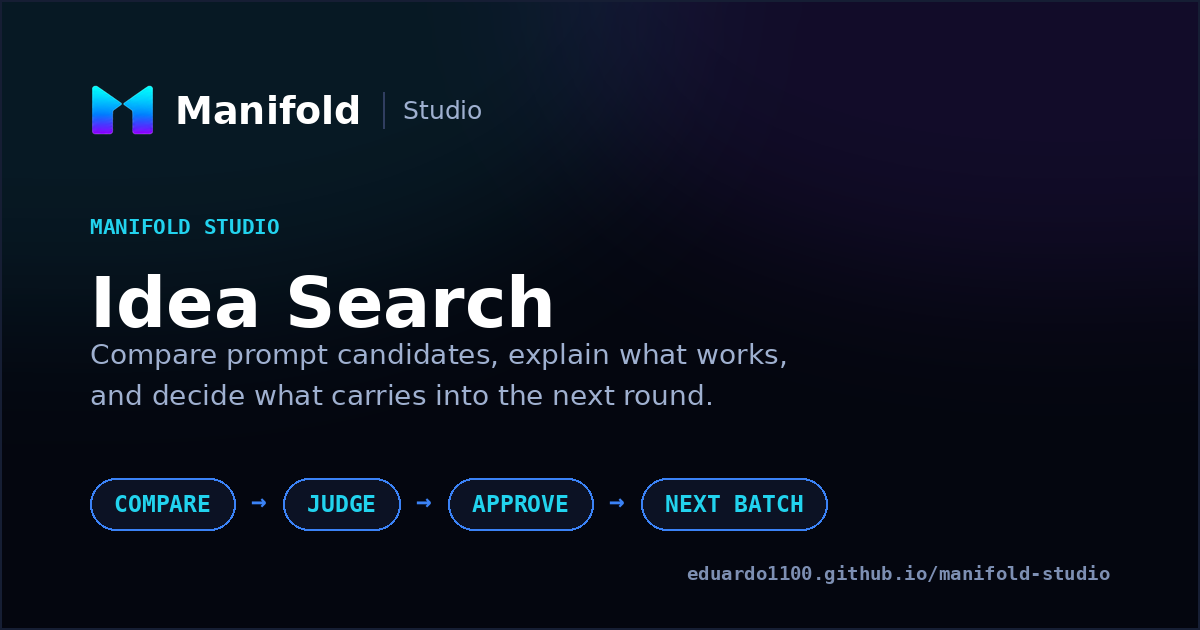
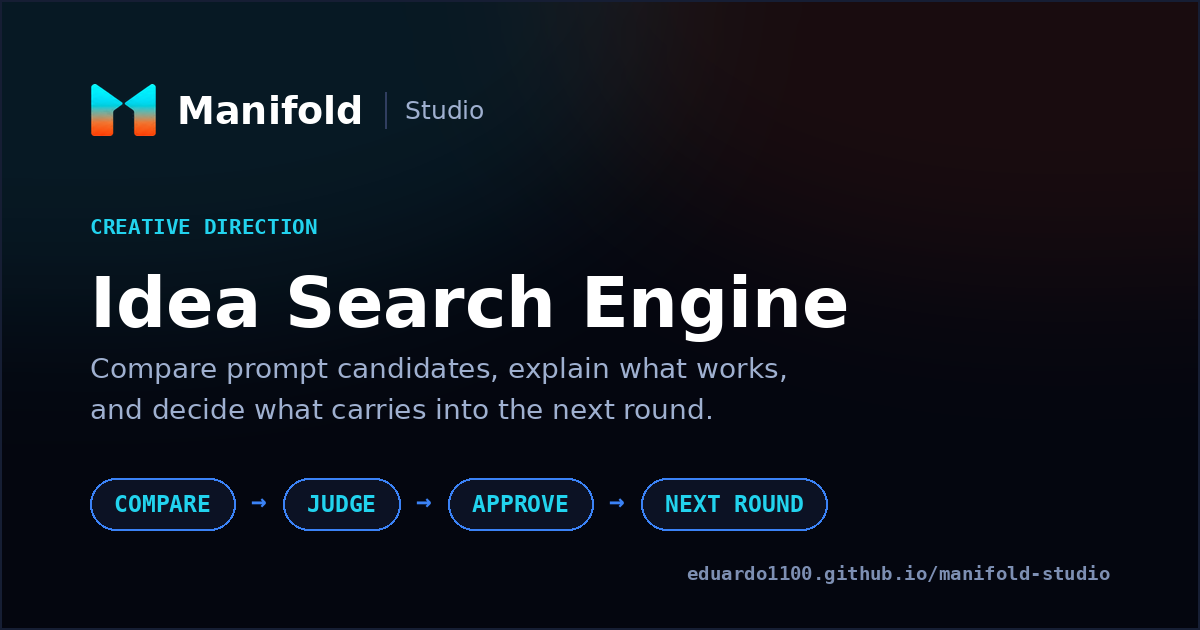
Publish current Manifold Studio showcase

diff --git a/index.html b/index.html
@@ -3,29 +3,29 @@
 <head>
 <meta charset="utf-8" />
 <meta name="viewport" content="width=device-width, initial-scale=1" />
-<title>Manifold Studio · Idea Search</title>
+<title>Manifold Studio · Idea Search Engine</title>
 <meta name="description" content="Compare prompt candidates, explain what works, and decide what carries into the next round." />
 <link rel="canonical" href="https://eduardo1100.github.io/manifold-studio/" />
-<link rel="icon" type="image/png" sizes="64x64" href="favicon.png?v=c9572b6fbd06" />
+<link rel="icon" type="image/png" sizes="64x64" href="favicon.png?v=6b3d4998cc20" />
 
 <meta property="og:type" content="website" />
-<meta property="og:title" content="Manifold Studio · Idea Search" />
+<meta property="og:title" content="Manifold Studio · Idea Search Engine" />
 <meta property="og:description" content="Compare prompt candidates, explain what works, and decide what carries into the next round." />
 <meta property="og:url" content="https://eduardo1100.github.io/manifold-studio/" />
 <meta property="og:image" content="https://eduardo1100.github.io/manifold-studio/social-preview.png" />
 <meta property="og:image:width" content="1200" />
 <meta property="og:image:height" content="630" />
-<meta property="og:image:alt" content="Manifold Studio Idea Search — Compare prompt candidates, explain what works, and decide what carries into the next round." />
+<meta property="og:image:alt" content="Manifold Studio Idea Search Engine — Compare prompt candidates, explain what works, and decide what carries into the next round." />
 
 <meta name="twitter:card" content="summary_large_image" />
-<meta name="twitter:title" content="Manifold Studio · Idea Search" />
+<meta name="twitter:title" content="Manifold Studio · Idea Search Engine" />
 <meta name="twitter:description" content="Compare prompt candidates, explain what works, and decide what carries into the next round." />
 <meta name="twitter:image" content="https://eduardo1100.github.io/manifold-studio/social-preview.png" />
-<meta name="twitter:image:alt" content="Manifold Studio Idea Search — Compare prompt candidates, explain what works, and decide what carries into the next round." />
+<meta name="twitter:image:alt" content="Manifold Studio Idea Search Engine — Compare prompt candidates, explain what works, and decide what carries into the next round." />
 <style>
 
 /* ===========================================================================
-   Manifold Studio -- Idea Search showcase stylesheet.
+   Manifold Studio -- Idea Search Engine showcase stylesheet.
 
    Visual tokens below (palette, gradients, glow, typography, borders, button
    treatment, card surfaces) are the approved Manifold baseline, carried over
@@ -66,55 +66,50 @@
    =========================================================================== */
 
 :root {
-  /* Shell: deep navy/black. */
   --ink-1000: #04060f;
   --ink-950: #060915;
   --ink-900: #070b18;
   --ink-850: #0c1224;
   --ink-800: #101830;
-
-  /* Midnight borders. */
   --line: rgba(125, 155, 220, 0.13);
   --line-2: rgba(125, 155, 220, 0.22);
   --line-strong: rgba(125, 155, 220, 0.34);
-
   --text: #f2f6ff;
   --text-dim: #9fb0d0;
   --text-faint: #7d8fb3;
-
   --cyan: #22d3ee;
   --blue: #3b82f6;
   --violet: #8b5cf6;
+  --ember: #fc4c0d;
   --accent: var(--cyan);
   --accent-soft: rgba(34, 211, 238, 0.1);
-  --accent-line: rgba(59, 130, 246, 0.34);
+  --accent-line: rgba(34, 211, 238, 0.48);
 
-  /* Action gradient: darker than the mark gradient so white text clears
-     4.5:1 at both ends. */
-  --grad-action: linear-gradient(135deg, #2563eb 0%, #6d3ff0 55%, #7c3aed 100%);
-
+  /* Current Manifold action language: ink surface, cyan edge, ember depth.
+     Violet is reserved for focus/state distinction rather than decoration. */
+  --action-surface: #0e1a34;
+  --action-surface-hover: #14223f;
+  --action-surface-active: #0a1428;
+  --action-label: #f2f6ff;
+  --action-keyline: rgba(34, 211, 238, 0.56);
+  --action-keyline-strong: rgba(34, 211, 238, 0.9);
+  --action-underglow: 0 14px 28px -23px rgba(252, 76, 13, 0.92);
+  --selection-glow: 0 0 0 1px rgba(34, 211, 238, 0.12), 0 20px 42px -34px rgba(34, 211, 238, 0.62);
   --positive: #34d399;
   --negative: #fb7185;
-
   --font-display: "Iowan Old Style", Georgia, serif;
   --font-body: ui-sans-serif, system-ui, -apple-system, "Segoe UI", sans-serif;
   --font-mono: ui-monospace, "SFMono-Regular", Menlo, monospace;
-
   --r-sm: 10px;
   --r-md: 13px;
   --r-lg: 16px;
   --r-pill: 999px;
-
   --shadow: 0 26px 60px -42px rgba(0, 0, 0, 0.95);
-  --glow: 0 0 0 1px rgba(59, 130, 246, 0.06), 0 18px 46px -34px rgba(37, 99, 235, 0.5);
-
+  --glow: 0 0 0 1px rgba(34, 211, 238, 0.05), 0 18px 46px -34px rgba(34, 211, 238, 0.38);
   --shell-max: 1680px;
   --gutter: clamp(14px, 2.4vw, 40px);
   --shell: min(var(--shell-max), calc(100% - var(--gutter) * 2));
-
-  /* Sticky offset = topbar height, so rails clear the two-level header. */
   --topbar-h: 5.9rem;
-
   color-scheme: dark;
 }
 
@@ -139,7 +134,7 @@ body {
 }
 
 a { color: var(--cyan); text-decoration: none; }
-a:focus-visible { outline: 2px solid var(--cyan); outline-offset: 2px; border-radius: 4px; }
+a:focus-visible { outline: 2px solid var(--violet); outline-offset: 2px; border-radius: 4px; }
 
 h1, h2, h3, h4 { letter-spacing: -0.024em; }
 
@@ -183,10 +178,21 @@ h1, h2, h3, h4 { letter-spacing: -0.024em; }
   inset: 0;
   z-index: -1;
   pointer-events: none;
+  overflow: hidden;
   background:
-    radial-gradient(58rem 30rem at 8% -10%, rgba(34, 211, 238, 0.1), transparent 62%),
-    radial-gradient(52rem 30rem at 78% -14%, rgba(124, 58, 237, 0.13), transparent 60%),
+    radial-gradient(58rem 32rem at 5% -8%, rgba(34, 211, 238, 0.12), transparent 62%),
+    radial-gradient(48rem 28rem at 86% -12%, rgba(252, 76, 13, 0.08), transparent 64%),
+    radial-gradient(42rem 22rem at 56% 112%, rgba(52, 211, 153, 0.035), transparent 70%),
     var(--ink-1000);
+}
+.app-glow::after {
+  content: "";
+  position: absolute;
+  inset: 0;
+  opacity: 0.18;
+  background-image: radial-gradient(rgba(242, 246, 255, 0.16) 0.5px, transparent 0.5px);
+  background-size: 5px 5px;
+  mask-image: linear-gradient(to bottom, black, transparent 36%);
 }
 
 /* ---- Two-level header (AppLayout.tsx) --------------------------------- */
@@ -221,16 +227,47 @@ h1, h2, h3, h4 { letter-spacing: -0.024em; }
   letter-spacing: 0.01em;
 }
 
-.app-nav { margin-left: auto; display: flex; gap: 0.1rem; }
+.app-nav { margin-left: auto; display: flex; gap: 0.2rem; }
 .app-nav-link {
-  padding: 0.4rem 0.72rem;
-  border-radius: var(--r-sm);
+  position: relative;
+  padding: 0.45rem 0.78rem;
+  border-radius: var(--r-pill);
   color: var(--text-dim);
   font-size: 0.84rem;
-  font-weight: 500;
+  font-weight: 560;
   white-space: nowrap;
 }
-.app-nav-link:hover { color: var(--text); background: rgba(125, 155, 220, 0.09); }
+.app-nav-link:hover { color: var(--text); background: rgba(125, 155, 220, 0.08); }
+.app-nav-link.is-active { color: var(--text); background: rgba(34, 211, 238, 0.11); }
+.app-nav-link.is-active::after {
+  content: "";
+  position: absolute;
+  left: 22%;
+  right: 22%;
+  bottom: 0.18rem;
+  height: 2px;
+  border-radius: var(--r-pill);
+  background: var(--cyan);
+  box-shadow: 0 0 12px rgba(34, 211, 238, 0.55);
+}
+.app-status {
+  display: inline-flex;
+  align-items: center;
+  gap: 0.42rem;
+  flex: none;
+  padding: 0.32rem 0.65rem;
+  border: 1px solid var(--line-2);
+  border-radius: var(--r-pill);
+  color: var(--text-dim);
+  font-size: 0.74rem;
+}
+.app-status-dot {
+  width: 0.42rem;
+  height: 0.42rem;
+  border-radius: 50%;
+  background: var(--positive);
+  box-shadow: 0 0 10px rgba(52, 211, 153, 0.45);
+}
 
 /* Context row: inert chips, deliberately not dropdowns. */
 .context-row {
@@ -263,27 +300,24 @@ h1, h2, h3, h4 { letter-spacing: -0.024em; }
 }
 .context-chip-value { color: var(--text-dim); font-size: 0.78rem; white-space: nowrap; }
 .context-chip:last-of-type .context-chip-value { color: var(--cyan); }
-.context-static {
-  flex: none;
-  color: var(--text-faint);
-  font-family: var(--font-mono);
-  font-size: 0.58rem;
-  letter-spacing: 0.14em;
-  text-transform: uppercase;
-}
-
 .app-main { width: var(--shell); margin-inline: auto; padding: 1.1rem 0 3rem; }
 
-/* ---- Compact title band ------------------------------------------------ */
-.title-band { padding: 0.3rem 0 1rem; }
+/* ---- Current Manifold editorial title band ---------------------------- */
+.title-band {
+  padding: clamp(1.25rem, 3vw, 2.8rem) 0 1.35rem;
+  margin-bottom: 1.15rem;
+  border-bottom: 1px solid var(--line);
+}
 .title-band h1 {
-  margin: 0.45rem 0 0.4rem;
-  font-size: clamp(1.5rem, 2.2vw, 2rem);
-  font-weight: 600;
-  line-height: 1.12;
+  margin: 0.55rem 0 0.45rem;
+  font-family: var(--font-display);
+  font-size: clamp(2.25rem, 4vw, 3.45rem);
+  font-weight: 400;
+  line-height: 1.03;
+  letter-spacing: -0.035em;
   color: #fff;
 }
-.hero-sub { margin: 0 0 0.65rem; color: var(--text-dim); font-size: 0.95rem; max-width: 64ch; }
+.hero-sub { margin: 0 0 0.7rem; color: var(--text-dim); font-size: clamp(0.94rem, 1.3vw, 1.05rem); max-width: 62ch; }
 .method-link {
   display: inline-flex;
   align-items: center;
@@ -552,10 +586,11 @@ h1, h2, h3, h4 { letter-spacing: -0.024em; }
   flex-direction: column;
   gap: 0.1rem;
   padding: 0.6rem 0.95rem;
+  border: 1px solid var(--action-keyline-strong);
   border-radius: var(--r-sm);
-  background: var(--grad-action);
-  color: #fff;
-  box-shadow: 0 14px 30px -20px rgba(59, 130, 246, 0.95);
+  background: var(--action-surface);
+  color: var(--action-label);
+  box-shadow: inset 0 0 0 1px rgba(34, 211, 238, 0.06), var(--action-underglow);
 }
 .generate-key-label { font-size: 0.9rem; font-weight: 650; }
 .generate-key-subtitle { font-size: 0.7rem; opacity: 0.86; }
@@ -616,6 +651,13 @@ h1, h2, h3, h4 { letter-spacing: -0.024em; }
   border: 1px solid var(--line);
   border-radius: var(--r-md);
   background: var(--ink-800);
+  transition: border-color 140ms ease, background-color 140ms ease, box-shadow 140ms ease;
+}
+.sheet-card:hover,
+.sheet-card:focus-within {
+  border-color: var(--action-keyline);
+  background: #111d36;
+  box-shadow: var(--selection-glow);
 }
 .sheet-card-head { display: flex; justify-content: space-between; align-items: baseline; gap: 0.5rem; }
 .sheet-card-id { font-family: var(--font-mono); font-size: 0.66rem; letter-spacing: 0.1em; color: var(--cyan); }
@@ -664,10 +706,10 @@ h1, h2, h3, h4 { letter-spacing: -0.024em; }
   flex-direction: column;
   gap: 0.8rem;
   padding: 0.9rem;
-  border: 1px solid var(--line);
+  border: 1px solid var(--action-keyline-strong);
   border-radius: var(--r-lg);
-  background: var(--ink-850);
-  box-shadow: var(--shadow), var(--glow);
+  background: linear-gradient(180deg, rgba(34, 211, 238, 0.045), transparent 38%), var(--ink-850);
+  box-shadow: var(--shadow), var(--selection-glow);
 }
 .focused-head { display: flex; flex-wrap: wrap; align-items: center; gap: 0.6rem; }
 .focused-title { color: var(--text); font-size: 0.9rem; font-weight: 600; }
@@ -1075,25 +1117,28 @@ h1, h2, h3, h4 { letter-spacing: -0.024em; }
   <header class="topbar">
     <div class="topbar-row">
       <a class="brand" href="#top" aria-label="Manifold Studio">
-        <img class="brand-mark" src="manifold-mark.png" alt="" width="32" height="26" decoding="async" />
+        <img class="brand-mark" src="manifold-mark.png" alt="" width="34" height="26" decoding="async" />
         <span class="brand-name">Manifold</span>
         <span class="brand-product">Studio</span>
       </a>
       <nav class="app-nav" aria-label="Studio sections">
-        <a class="app-nav-link" href="#loop">Idea Search</a><a class="app-nav-link" href="#memory">Memory</a><a class="app-nav-link" href="#history">History</a><a class="app-nav-link" href="#method">Method</a>
+        <a class="app-nav-link is-active" href="#loop">Idea Search Engine</a><a class="app-nav-link" href="#memory">Memory</a><a class="app-nav-link" href="#history">History</a><a class="app-nav-link" href="#method">Method</a>
       </nav>
+      <span class="app-status" aria-label="Read-only showcase">
+        <span class="app-status-dot" aria-hidden="true"></span>
+        Read-only
+      </span>
     </div>
     <div class="context-row" aria-label="Cockpit context (read-only)">
       <span class="context-chip"><span class="context-chip-key">workspace</span><span class="context-chip-value">Showcase Workspace</span></span><span class="context-chip"><span class="context-chip-key">project</span><span class="context-chip-value">Citrus Launch</span></span><span class="context-chip"><span class="context-chip-key">skill</span><span class="context-chip-value">Short Product Films</span></span><span class="context-chip"><span class="context-chip-key">target model</span><span class="context-chip-value">generic</span></span>
-      <span class="context-static">read-only</span>
     </div>
   </header>
 
   <main class="app-main">
 
     <section class="title-band">
-      <p class="eyebrow">Manifold Studio</p>
-      <h1>Idea Search</h1>
+      <p class="eyebrow">Creative direction</p>
+      <h1>Idea Search Engine</h1>
       <p class="hero-sub">Compare prompt candidates, explain what works, and decide what carries into the next round.</p>
       <a class="method-link" href="#method">Evidence and method<span aria-hidden="true">&rarr;</span></a>
     </section>
@@ -2379,7 +2424,7 @@ h1, h2, h3, h4 { letter-spacing: -0.024em; }
               and do nothing.
             </p>
             <p class="disclosure">The model drafts prompts. You decide what carries forward.</p>
-            <p class="disclosure">Idea Search is the Manifold Studio presentation of the system originally developed as Subjective Skill Studio.</p>
+            <p class="disclosure">Idea Search Engine is the Manifold Studio presentation of the system originally developed as Subjective Skill Studio.</p>
             <p class="disclosure">This showcase presents the pre-participation Subjective Skill Studio system within the Manifold product family. Its deterministic evidence remains tied to the audited source snapshot; later Manifold participation features are not represented here.</p>
           </section>
 
@@ -2482,7 +2527,7 @@ h1, h2, h3, h4 { letter-spacing: -0.024em; }
 
   <footer class="site-footer">
     <p>
-      Manifold Studio &middot; Idea Search. Generated
+      Manifold Studio &middot; Idea Search Engine. Generated
       deterministically from source snapshot commit
       <span class="mono">82ed65dc01c2</span>.
       &copy; 2026 Eduardo Cortes. All rights reserved.

diff --git a/README.md b/README.md
@@ -1,11 +1,11 @@
-# Manifold Studio — Idea Search
+# Manifold Studio — Idea Search Engine
 
-**Idea Search** is the Manifold Studio feature for choosing creative direction
+**Idea Search Engine** is the Manifold Studio feature for choosing creative direction
 with a person in the loop:
 
     Manifold
       Manifold Studio
-        Idea Search
+        Idea Search Engine
 
 Compare prompt candidates, explain what works, and decide what carries into the
 next round. The model drafts prompts. You decide what carries forward: only
@@ -14,7 +14,7 @@ from judgment to accepted item is preserved.
 
 This repository contains the static, evidence-backed showcase for that feature.
 
-Idea Search is the Manifold Studio presentation of the system originally
+Idea Search Engine is the Manifold Studio presentation of the system originally
 developed as Subjective Skill Studio. The evidence in this bundle was generated
 from that system's source snapshot, which predates the Manifold branding.
 
